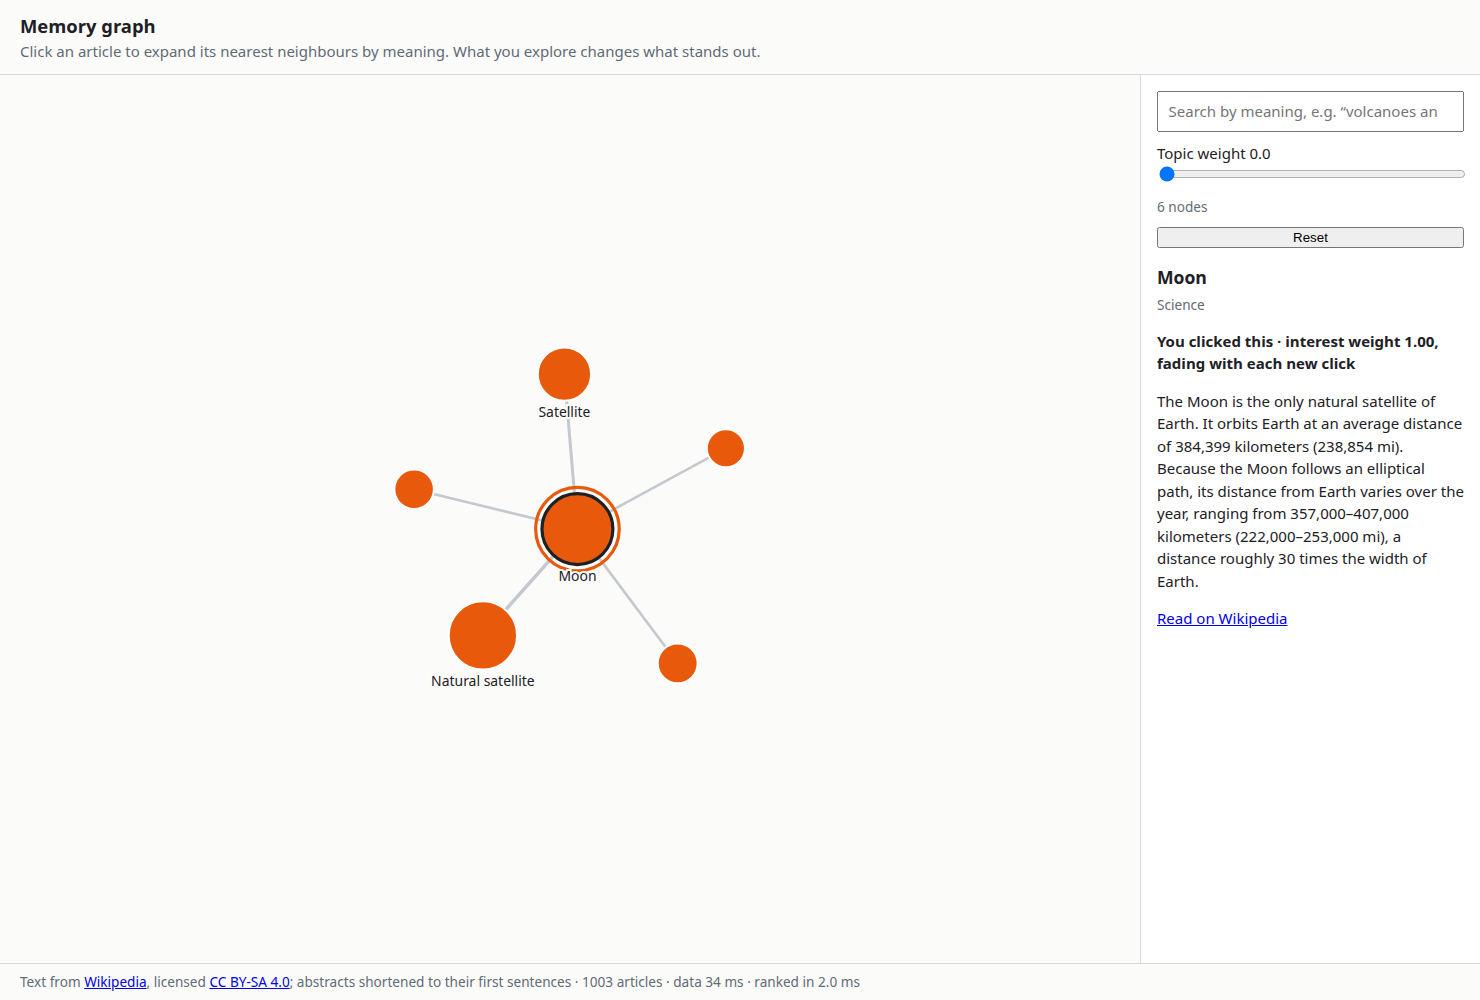
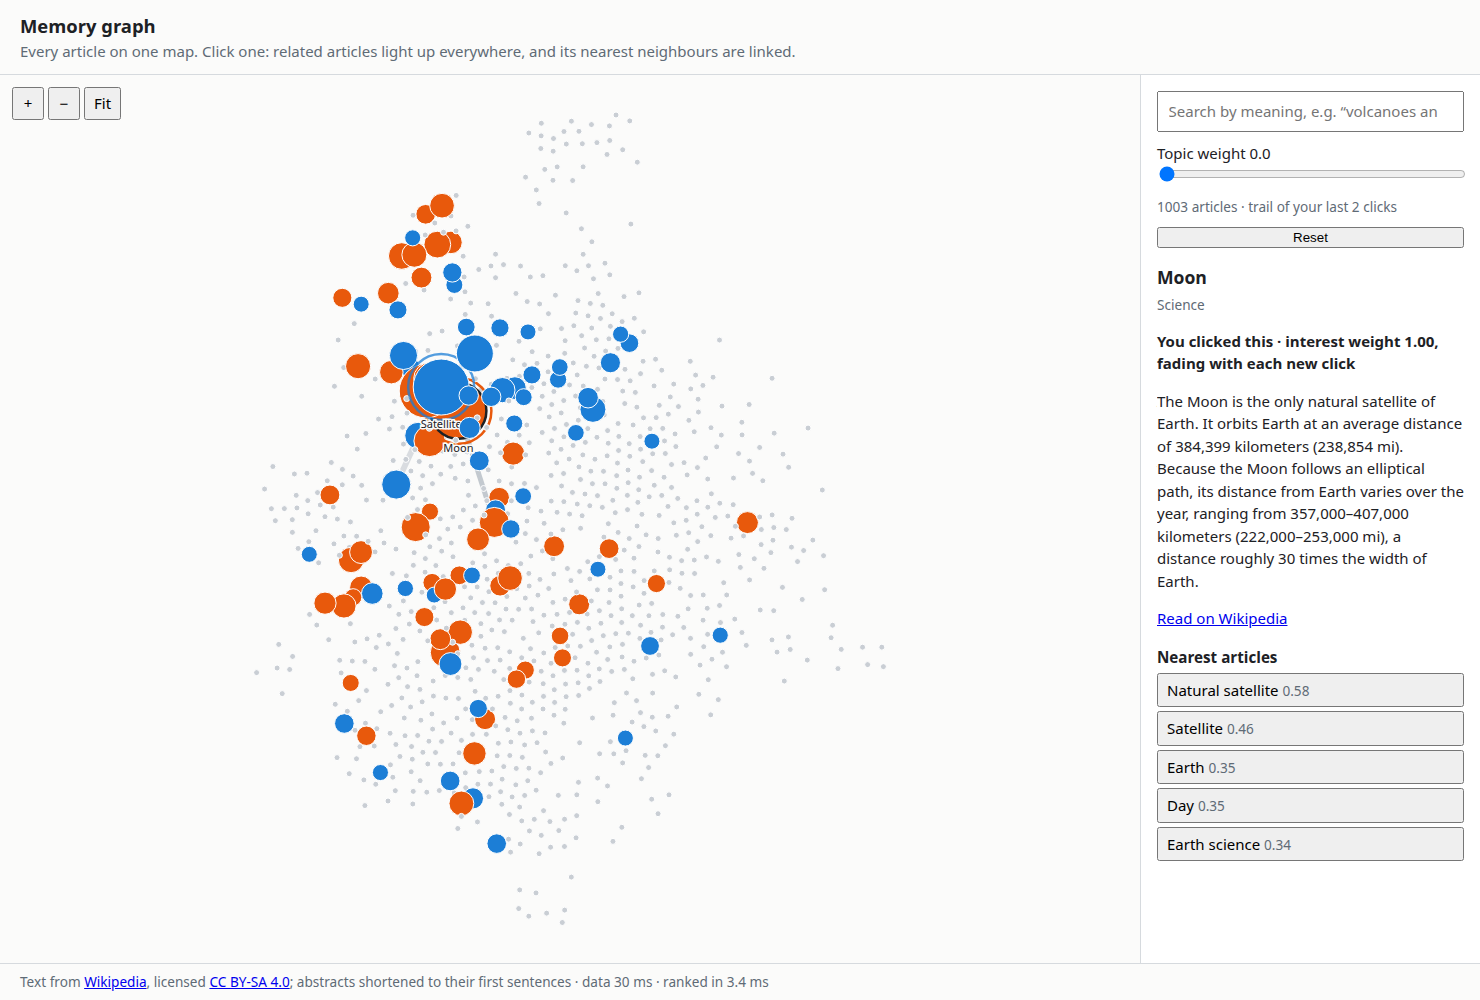
feat(memory-graph): whole-map E2E, frame-rate check and README
The map now opens already fitted: the container is measured before the
first paint, and fitting on load or resize is instant (only Fit and search
animate). Before, it fitted to a fallback size, then flew to the real fit.

diff --git a/e2e/memory-graph.spec.ts b/e2e/memory-graph.spec.ts
@@ -2,69 +2,98 @@ import type { Page } from '@playwright/test'
 import { expect, test } from './fixtures.ts'
 
 const graph = (page: Page) => page.getByRole('region', { name: 'Memory graph' })
-const nodes = (page: Page) => graph(page).getByRole('button')
+const nodes = (page: Page) => graph(page).locator('g.node')
+const edges = (page: Page) => graph(page).locator('line.edge')
+const node = (page: Page, title: string) => graph(page).locator(`g.node[data-title="${title}"]`)
 const detail = (page: Page) => page.getByRole('region', { name: 'Article details' })
+const nearest = (page: Page) => detail(page).locator('.neighbours button')
 const pendingChip = (page: Page) => page.getByText(/\d+ changes? pending/)
 const focusedTitle = (page: Page) => page.evaluate(() => document.activeElement?.getAttribute('data-title') ?? null)
+const worldTransform = (page: Page) => graph(page).locator('g.world').getAttribute('transform')
+const worldScale = async (page: Page) => Number(/scale\(([\d.]+)\)/.exec((await worldTransform(page)) ?? '')?.[1])
 
 async function open(page: Page) {
   await page.goto('/')
-  await expect(nodes(page)).toHaveCount(6, { timeout: 30_000 })
+  await expect(nodes(page)).toHaveCount(1003, { timeout: 30_000 })
+  await expect(edges(page)).toHaveCount(5)
 }
 
-test('opens on Moon with its five nearest articles', async ({ page }) => {
+/** Dots overlap when zoomed out, so tests click a specific node directly rather than by coordinates. */
+const clickNode = (page: Page, title: string) => node(page, title).dispatchEvent('click')
+
+test('opens on the whole map with the Moon trail', async ({ page }) => {
   await open(page)
-  await expect(graph(page).locator('[data-title="Moon"]')).toBeVisible()
   await expect(detail(page).getByRole('heading', { name: 'Moon' })).toBeVisible()
   await expect(detail(page).locator('.why')).toContainText('You clicked this')
-  await page.waitForTimeout(1500)
-  await page.screenshot({ path: 'docs/memory-graph.png' })
+  await expect(nearest(page)).toHaveCount(5)
 })
 
-test('clicking a neighbour expands it and explains it', async ({ page }) => {
+test('clicking an article adds its trail and selects it', async ({ page }) => {
   await open(page)
-  const neighbour = nodes(page).nth(1)
-  const title = await neighbour.getAttribute('data-title')
-  await neighbour.click()
-  await expect.poll(() => nodes(page).count()).toBeGreaterThan(6)
-  await expect(detail(page).getByRole('heading', { name: title! })).toBeVisible()
-  await expect(detail(page).locator('.why')).toContainText('You clicked this')
+  const title = (await nearest(page).first().textContent())!.replace(/\s[\d.]+$/, '').trim()
+  await clickNode(page, title)
+  await expect(detail(page).getByRole('heading', { name: title })).toBeVisible()
+  await expect.poll(() => edges(page).count()).toBeGreaterThan(5)
 })
 
-test('sizes hold still while the pointer is on the graph, then apply when it leaves', async ({ page }) => {
+test('sizes hold still while the pointer is on the map, then apply when it leaves', async ({ page }) => {
   await open(page)
-  await nodes(page).nth(1).click()
-  await page.mouse.move(400, 400)
+  const box = (await graph(page).boundingBox())!
+  await page.mouse.move(box.x + box.width / 2, box.y + box.height / 2)
+  await nearest(page).first().dispatchEvent('click')
+  await page.mouse.move(box.x + box.width / 2 + 5, box.y + box.height / 2 + 5)
   await expect(pendingChip(page)).toBeVisible()
-  await page.mouse.move(5, 5)
+  await page.mouse.move(box.x + box.width + 50, box.y + 10)
   await expect(pendingChip(page)).toBeHidden()
 })
 
-test('keyboard: Enter expands, arrows browse neighbours', async ({ page }) => {
+test('keyboard: one tab stop on Moon, arrows walk its neighbours, Escape returns', async ({ page }) => {
   await open(page)
-  await nodes(page).nth(2).focus()
-  const start = await focusedTitle(page)
-  await page.keyboard.press('Enter')
-  await expect.poll(() => nodes(page).count()).toBeGreaterThan(6)
+  await page.getByRole('button', { name: 'Fit map' }).focus()
+  await page.keyboard.press('Tab')
+  expect(await focusedTitle(page)).toBe('Moon')
   await page.keyboard.press('ArrowRight')
-  await expect.poll(() => focusedTitle(page)).not.toBe(start)
+  await expect.poll(() => focusedTitle(page)).not.toBe('Moon')
   await page.keyboard.press('Escape')
-  await expect.poll(() => focusedTitle(page)).toBe(start)
+  await expect.poll(() => focusedTitle(page)).toBe('Moon')
 })
 
-test('search runs the model on-device and expands the best match', async ({ page }) => {
+test('search runs the model on-device and flies to the best match', async ({ page }) => {
   await open(page)
+  const before = await worldTransform(page)
   const search = page.getByRole('searchbox')
   await search.fill('playing the guitar in a band')
   await search.press('Enter')
   await expect(page.getByText('Search model ready')).toBeVisible({ timeout: 150_000 })
-  await expect(detail(page).getByRole('heading')).toHaveText(/^(Musical instrument|Music)$/, { timeout: 30_000 })
+  await expect(detail(page).getByRole('heading', { level: 2 })).toHaveText('Musical instrument', { timeout: 30_000 })
+  await expect.poll(() => worldTransform(page)).not.toBe(before)
+  await expect.poll(() => worldScale(page)).toBeCloseTo(2, 1)
+})
+
+test('zoom buttons change the scale and Fit restores it', async ({ page }) => {
+  await open(page)
+  const fitted = await worldScale(page)
+  await page.getByRole('button', { name: 'Zoom in' }).click()
+  await expect.poll(() => worldScale(page)).toBeGreaterThan(fitted)
+  await page.getByRole('button', { name: 'Fit map' }).click()
+  await expect.poll(() => worldScale(page)).toBeCloseTo(fitted, 2)
 })
 
 test('reset forgets what you explored', async ({ page }) => {
   await open(page)
-  await nodes(page).nth(1).click()
+  await nearest(page).first().dispatchEvent('click')
   await page.getByRole('button', { name: 'Reset' }).click()
-  await expect(nodes(page)).toHaveCount(6)
+  await expect(detail(page).getByRole('heading', { name: 'Moon' })).toBeVisible()
+  await expect(edges(page)).toHaveCount(5)
   await expect(graph(page).locator('.ring')).toHaveCount(0)
+})
+
+test('screenshot: the whole map after two clicks', async ({ page }) => {
+  await open(page)
+  await nearest(page).nth(1).dispatchEvent('click')
+  await expect.poll(() => edges(page).count()).toBeGreaterThan(5)
+  await nearest(page).nth(2).dispatchEvent('click')
+  await page.mouse.move(5, 5)
+  await page.waitForTimeout(2500)
+  await page.screenshot({ path: 'docs/memory-graph.png' })
 })

diff --git a/examples/memory-graph/src/graph/useZoom.ts b/examples/memory-graph/src/graph/useZoom.ts
@@ -1,15 +1,23 @@
 import { select } from 'd3-selection'
 import 'd3-transition'
 import { type D3ZoomEvent, zoom, zoomIdentity } from 'd3-zoom'
-import { type RefObject, useCallback, useEffect, useMemo, useState } from 'react'
+import { type RefObject, useCallback, useEffect, useLayoutEffect, useMemo, useState } from 'react'
 import { SCALE_EXTENT, type Size, type Transform } from './camera.ts'
 
 const FALLBACK_SIZE: Size = { width: 800, height: 600 }
 const MOVE_MS = 400
 
-/** The element's size, kept current with ResizeObserver (absent in jsdom → a fixed fallback). */
+/**
+ * The element's size: measured before the first paint (so the map doesn't fit twice and jump on load), then kept
+ * current with ResizeObserver. jsdom has neither layout nor ResizeObserver → a fixed fallback.
+ */
 export function useViewportSize(ref: RefObject<Element | null>): Size {
   const [size, setSize] = useState<Size>(FALLBACK_SIZE)
+  useLayoutEffect(() => {
+    const rect = ref.current?.getBoundingClientRect()
+    // oxlint-disable-next-line react/set-state-in-effect
+    if (rect && rect.width > 0 && rect.height > 0) setSize({ width: rect.width, height: rect.height })
+  }, [ref])
   useEffect(() => {
     const el = ref.current
     if (!el || typeof ResizeObserver === 'undefined') return
@@ -53,11 +61,11 @@ export function useZoom(ref: RefObject<SVGSVGElement | null>, size: Size, animat
   }, [ref, behavior])
 
   const moveTo = useCallback(
-    (t: Transform) => {
+    (t: Transform, { instant = false } = {}) => {
       const svg = ref.current
       if (!svg) return
       const target = zoomIdentity.translate(t.x, t.y).scale(t.k)
-      if (animate) select(svg).transition().duration(MOVE_MS).call(behavior.transform, target)
+      if (animate && !instant) select(svg).transition().duration(MOVE_MS).call(behavior.transform, target)
       else select(svg).call(behavior.transform, target)
     },
     [ref, behavior, animate],

diff --git a/examples/memory-graph/scripts/measure-fps.ts b/examples/memory-graph/scripts/measure-fps.ts
@@ -1,0 +1,41 @@
+/**
+ * Frames per second while panning and zooming the map, on a production build.
+ *   npm run build -w examples/memory-graph && npx vite preview --port 4175 --strictPort (in examples/memory-graph)
+ *   npm run measure:fps -w examples/memory-graph
+ */
+import { chromium } from '@playwright/test'
+
+const URL = process.env.GRAPH_URL ?? 'http://localhost:4175/'
+const browser = await chromium.launch({ channel: 'chrome' })
+const page = await browser.newPage({ viewport: { width: 1480, height: 1000 } })
+await page.goto(URL)
+await page.locator('g.node').nth(1000).waitFor()
+await page.waitForTimeout(1500)
+const box = (await page.getByRole('region', { name: 'Memory graph' }).boundingBox())!
+const [cx, cy] = [box.x + box.width / 2, box.y + box.height / 2]
+
+await page.evaluate(() => {
+  const w = window as unknown as { frames: number; counting: boolean }
+  w.frames = 0
+  w.counting = true
+  const tick = () => {
+    if (!w.counting) return
+    w.frames += 1
+    requestAnimationFrame(tick)
+  }
+  requestAnimationFrame(tick)
+})
+const started = Date.now()
+await page.mouse.move(cx, cy)
+await page.mouse.down()
+for (let i = 0; i < 40; i += 1) await page.mouse.move(cx + Math.sin(i / 4) * 200, cy + Math.cos(i / 4) * 120)
+await page.mouse.up()
+for (let i = 0; i < 20; i += 1) await page.mouse.wheel(0, i < 10 ? -120 : 120)
+const seconds = (Date.now() - started) / 1000
+const frames = await page.evaluate(() => {
+  const w = window as unknown as { frames: number; counting: boolean }
+  w.counting = false
+  return w.frames
+})
+console.log(`${(frames / seconds).toFixed(0)} fps over ${seconds.toFixed(1)} s of panning and zooming (1003 articles)`)
+await browser.close()

diff --git a/examples/memory-graph/src/ui/GraphView.tsx b/examples/memory-graph/src/ui/GraphView.tsx
@@ -58,8 +58,8 @@ export function GraphView({ ids, positions, edges, visuals, titleOf, selected, o
     setCursor(selected)
   }
 
-  // Fit the whole map on first render and whenever the viewport size changes.
-  useEffect(() => moveTo(fitTransform(bounds, size)), [bounds, size, moveTo])
+  // Fit the whole map on first render and whenever the viewport size changes — instantly, so the page never opens mid-flight.
+  useEffect(() => moveTo(fitTransform(bounds, size), { instant: true }), [bounds, size, moveTo])
 
   // Only a new request moves the camera, not a resize: the latest size and positions are read through a ref.
   const latest = useRef({ positions, size, moveTo })

diff --git a/examples/memory-graph/README.md b/examples/memory-graph/README.md
@@ -1,7 +1,8 @@
 # Memory graph
 
 Explore ~1000 Wikipedia articles (the [Level 3 vital articles](https://en.wikipedia.org/wiki/Wikipedia:Vital_articles/Level/3))
-by meaning. Click an article and its 5 nearest neighbours appear; what you've explored changes how every node looks.
+on one map. Click an article: related articles light up across the whole map, and its 5 nearest neighbours are
+linked. Your last 5 clicks stay linked as a fading trail. Scroll or pinch to zoom; labels appear as you get closer.
 
 ![Memory graph](../../docs/memory-graph.png)
 
@@ -12,17 +13,18 @@ npm run eval:graph       # neighbour quality + baseline timings
 
 ## What you're looking at
 
-Two layers, from two parts of semantic-state:
+Three layers:
 
 | Layer | Drawn as | Comes from |
 |---|---|---|
-| **Structure** | nodes and edges; edge width = similarity | `store.requestSimilar(id, 5)` for each expanded article (`useNeighbors`) |
-| **Attention** | size, colour, ring | `useSemantic(query)` in multi-interest mode |
+| **Map** | every article at a fixed position; neighbours sit close together | `scripts/build-layout.ts`: a force layout over each article's 5 nearest neighbours, computed once and committed (`public/wiki/layout.json`) |
+| **Trail** | edges from your last 5 clicks to their neighbours, fading with age | `store.requestSimilar(id, 5)` per clicked article (`useNeighbors`) |
+| **Attention** | size, colour, ring on every article | `useSemantic(query)` in multi-interest mode, top 100 |
 
 | Visual | Meaning |
 |---|---|
 | Large node with a ring | an article you clicked; the ring fades as the interest decays |
-| Node size | `confidence` of the belief (8–28 px) |
+| Node size | `confidence` of the belief (8–28 px); unranked articles are 3 px dots |
 | Colour | which click made it relevant (one colour per interest lane); dark grey = matches your search; light grey = no strong signal |
 | Edge | nearest-neighbour link; wider = more similar |
 
@@ -37,12 +39,15 @@ leaves ("N changes pending").
 So the search seed is chosen by query-to-article similarity alone (the worker sends query vectors with
 `emitVectors`); below 0.3 you get "Only weak matches" instead of a jump.
 
+**Keyboard.** The map is one tab stop (the selected article). Arrow keys walk its neighbours, Escape returns,
+Enter explores, `+` `-` `0` zoom. The detail panel's "Nearest articles" list is the same graph without the map.
+
 **Topic weight** blends a one-hot topic vector into similarity: at 0 neighbours are pure meaning, at 1 they stay
 within their topic.
 
 ## Data
 
-`public/wiki/` is built by `npm run build:data -w examples/memory-graph` from the MediaWiki API and committed.
+`public/wiki/` is built by `npm run build:data -w examples/memory-graph && npm run build:layout -w examples/memory-graph` from the MediaWiki API and committed.
 Vectors are computed at build time, so the page loads no model until you search.
 
 Loading goes through `ArticleSource` (`src/source.ts`), and vectors reach the worker with
@@ -55,6 +60,8 @@ embeds on load) plus IndexedDB caching is a planned follow-up, measured against 
 | Ranking all 1003 articles in the worker (`rankMs`) | 8.7 ms |
 | Neighbours of one article (`eval:graph`, median) | 1.9 ms |
 | Neighbour quality (`eval:graph`) | 10/10 sources have an expected article in their top 5 |
+| Map quality (`eval:graph`) | 99.2 % of neighbour edges shorter than the median random pair |
+| Pan and zoom, production build (`measure:fps`) | 60 fps |
 
 ## Licence
 

diff --git a/README.md b/README.md
@@ -46,7 +46,7 @@ Then write a worker file, create a store and use the hooks — see the
 |---|---|
 | [**Dev inbox**](examples/inbox) | Rules vs `useSemantic("what needs my attention right now")`: centroid attention, a custom scorer with deadlines, near-duplicate folding, a scripted 5-step scenario with precision@5 (rules 0–2/5, semantic 4–5/5 after a few clicks) |
 | [**Semantic Pokédex**](examples/pokedex) | Free-text search over 1025 Pokémon, multi-interest clicks with lanes, "similar to" with adjustable weights, build-time vectors |
-| [**Memory graph**](examples/memory-graph) | ~1000 Wikipedia articles as an explorable graph: nearest neighbours for structure, `useSemantic` beliefs for size and colour, visuals held still while you work, build-time vectors behind a swappable source |
+| [**Memory graph**](examples/memory-graph) | ~1000 Wikipedia articles on one zoomable map: a click lights up related articles everywhere and leaves a trail of nearest neighbours; build-time layout and vectors behind a swappable source |
 
 ![Semantic Pokédex](docs/pokedex-search.png)
 
